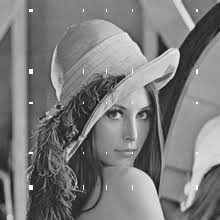
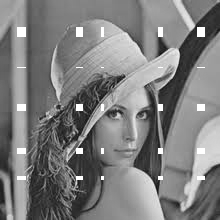
fix union interstripation

diff --git a/edu/slavik/interstripation/core/standard/UnionInterstripation.py b/edu/slavik/interstripation/core/standard/UnionInterstripation.py
@@ -21,17 +21,17 @@ class UnionInterstripation:
         """
         startV = region.x1 - 1
         startH = region.y1 - 1
-        endV = region.x2 + 1
-        endH = region.y2 + 1
+        endV = region.x2
+        endH = region.y2
 
         for i in range(startV, endV):
             for j in range(startH, endH):
                 surface.matrix[i, j] = \
-                    (i - endH) / (startH - endH) * surface.matrix[startH, j] - \
-                    (i - startH) / (startH - endH) * surface.matrix[endH, j] + \
-                    (j - endV) / (startV - endV) * surface.matrix[i, startV] - \
-                    (j - startV) / (startV - endV) * surface.matrix[i, endV] - \
-                    (i - endH) / (startH - endH) * (j - endV) / (startV - endV) * surface.matrix[startH, startV] + \
-                    (i - endH) / (startH - endH) * (j - startV) / (startV - endV) * surface.matrix[startH, endV] + \
-                    (i - startH) / (startH - endH) * (j - endV) / (startV - endV) * surface.matrix[endH, startV] - \
-                    (i - startH) / (startH - endH) * (j - startV) / (startV - endV) * surface.matrix[endH, endV]
+                    (i - endV) / (startV - endV) * surface.matrix[startV, j] - \
+                    (i - startV) / (startV - endV) * surface.matrix[endV, j] + \
+                    (j - endH) / (startH - endH) * surface.matrix[i, startH] - \
+                    (j - startH) / (startH - endH) * surface.matrix[i, endH] - \
+                    (i - endV) / (startV - endV) * (j - endH) / (startH - endH) * surface.matrix[startV, startH] + \
+                    (i - endV) / (startV - endV) * (j - startH) / (startH - endH) * surface.matrix[startV, endH] + \
+                    (i - startV) / (startV - endV) * (j - endH) / (startH - endH) * surface.matrix[endV, startH] - \
+                    (i - startV) / (startV - endV) * (j - startH) / (startH - endH) * surface.matrix[endV, endH]

diff --git a/edu/slavik/interstripation/results/standard/RestoreUnionStripes.py b/edu/slavik/interstripation/results/standard/RestoreUnionStripes.py
@@ -2,17 +2,17 @@ from edu.slavik.interstripation.surface.Surface import Surface
 from edu.slavik.interstripation.surface.LinearEdgesSurface import LinearEdgesSurface
 from edu.slavik.interstripation.core.standard.UnionInterstripation import UnionInterstripation
 """
-Contains example of restore intersected stripes using standard interstripation
+Contains example of restore union stripes using standard interstripation
 
 @author: oleksii.slavik
 """
 
 # remove stripes
-surface = LinearEdgesSurface('../../resources/test.jpeg', 5, 5, 5, 5)
+surface = LinearEdgesSurface('../../resources/test.jpeg', 5, 5, 10, 10)
 surface.removeRegions()
 surface.save('../../resources/standard/corrupted/union.png')
 
-# restore vertical stripes
+# restore stripes
 for i in range(len(surface.regions)):
     UnionInterstripation.restore(surface, surface.regions[i])
 

diff --git a/edu/slavik/interstripation/results/standard/RestoreIntersectedStripes.py b/edu/slavik/interstripation/results/standard/RestoreIntersectedStripes.py
@@ -12,7 +12,7 @@ surface = LinearEdgesSurface('../../resources/test.jpeg', 5, 5, 5, 5)
 surface.removeStripes()
 surface.save('../../resources/standard/corrupted/intersection.png')
 
-# restore vertical stripes
+# restore stripes
 for i in range(len(surface.verticalStripes)):
     for j in range(len(surface.horizontalStripes)):
         IntersectionInterstripation.restore(surface, surface.verticalStripes[i], surface.horizontalStripes[j])

diff --git a/edu/slavik/interstripation/stripe/Region.py b/edu/slavik/interstripation/stripe/Region.py
@@ -12,3 +12,6 @@ class Region:
                 surface.matrix[i, j] = -1
 
         return surface
+
+    def __repr__(self):
+        return str(self.__dict__)
